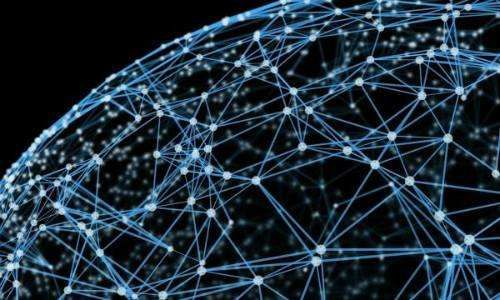
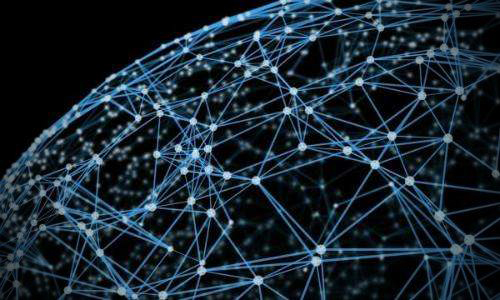
feat: glh修改了一下排版

diff --git a/font-end/src/App.vue b/font-end/src/App.vue
@@ -38,16 +38,18 @@
           contain
       />
         <div class="up-content">
-          <div style="margin-left: 100px;">
-            科技创造未来
+          <div style="margin-left: 30px;">
+            科技拥抱未来
           </div>
-          <div style="margin-left: 150px;">
+          <div style="margin-left: 70px;">
             未来拥抱世界
           </div>
-
-          <div style="margin-left: 300px;font-size: 20px;">
-            Technology creates the future, and the future embraces the world
+          <div style="margin-top: 60px; margin-left: 160px;font-size: 36px;">
+            Technology creates the future,
           </div>
+          <div style="margin-left: 230px;font-size: 36px;">
+            Future embraces the world.
+        </div>
         </div>
       </div>
 
@@ -55,7 +57,7 @@
 <!--  总的一些话    -->
       <div style="position: relative;">
         <v-img
-            :src="require('./assets/toAll.jpg')"
+            :src="require('./assets/toAll.png')"
             contain
         />
         <div class="content-image">
@@ -87,7 +89,7 @@
         >
         </v-carousel-item>
         </v-carousel>
-        <div style="margin-top: 20px;text-align: center;font-size: 35px;">{{options[swiperIndex].title}}</div>
+          <div style="margin-top: 20px;text-align: center;font-size: 35px; color: #188872"><strong>{{options[swiperIndex].title}}</strong></div>
         <div style="margin-top: 20px;text-align: center;font-size: 20px;">{{options[swiperIndex].content}}</div>
       </div>
 <!--   研究团队   -->
@@ -98,11 +100,13 @@
                 width="20%"
         />
       </div>
-      <div style="width: 70%;margin-left: 15%">
+      <div style="width: 100%">
         <div>
-          <v-card dark width="70%" style="margin-left: 15%;margin-top: 20px">
-            <v-card-title class="purple lighten-2">
-              <h2 class="display-1 white--text font-weight-light">首席科学家：容淳铭院士</h2>
+          <v-card dark width="30%" style="margin-left: 2.5%;margin-top: 20px; display: inline-block">
+            <v-card-title class="lighten-2" style="background-color: #188872">
+              <h2 class="display-1 white--text font-weight-light">首席科学家：<br>
+                <a href="https://www.qdiap.com/index.php/content/142" style="text-decoration: none; color: white">容淳铭院士</a>
+              </h2>
             </v-card-title>
             <v-container>
               <v-row>
@@ -114,9 +118,11 @@
               </v-row>
             </v-container>
           </v-card>
-          <v-card dark width="70%" style="margin-left: 15%;margin-top: 20px">
-            <v-card-title class="purple lighten-2">
-              <h2 class="display-1 white--text font-weight-light">首席顾问专家：黎子良院士</h2>
+          <v-card dark width="30%" style="margin-left: 2.5%;margin-top: 20px; display: inline-block">
+            <v-card-title class="lighten-2" style="background-color: #188872">
+              <h2 class="display-1 white--text font-weight-light">首席顾问专家：<br>
+                <a href="https://statistics.stanford.edu/people/tze-leung-lai" style="text-decoration: none; color: white">黎子良院士</a>
+              </h2>
             </v-card-title>
             <v-container>
               <v-row>
@@ -124,15 +130,16 @@
                   美国数理统计学院院士，台湾中央研究院院士，美国统计学会会士。美国斯坦福大学统计系教授、统计系原系主任，
                   斯坦福金融工程学院计算和数学工程研究所荣誉院士，斯坦福金融数学工程、金融与风险建模研究所主管。
                   1983年获国际统计学界COPSS奖(被视为国际统计学“诺贝尔”奖)，系该奖首位华人得主。已出版学术专著10余部，
-                  发表科研论文270余篇，指导已毕业的博士60余人。他2008年出版的《金融市场的数学模型和方法论》，
-                  2013年出版的《动态风险管理：金融模型与数学模型》以及《算法交易和量化科学》已经成为斯坦福大学的必修课教材。
+                  发表科研论文270余篇，指导已毕业的博士60余人。
                 </v-col>
               </v-row>
             </v-container>
           </v-card>
-          <v-card dark width="70%" style="margin-left: 15%;margin-top: 20px">
-            <v-card-title class="purple lighten-2">
-              <h2 class="display-1 white--text font-weight-light">执行负责人：丁晓蔚博士</h2>
+          <v-card dark width="30%" style="margin-left: 2.5%;margin-top: 20px; display: inline-block">
+            <v-card-title class="lighten-2" style="background-color: #188872">
+              <h2 class="display-1 white--text font-weight-light">执行负责人：<br>
+                <a href="https://im.nju.edu.cn/dxy1/list.htm" style="text-decoration: none; color: white">丁晓蔚博士</a>
+              </h2>
             </v-card-title>
             <v-container>
               <v-row>
@@ -147,9 +154,9 @@
           </v-card>
         </div>
       </div>
-      <v-timeline :dense="$vuetify.breakpoint.smAndDown" dark>
+      <v-timeline :dense="$vuetify.breakpoint.smAndDown" style="margin-top: 100px; background-color: white">
         <v-timeline-item
-                color="purple lighten-2"
+                color="black purple lighten-2"
                 fill-dot
                 right
         >
@@ -159,8 +166,8 @@
             </v-card-title>
             <v-container>
               <v-row>
-                <v-col cols="12" md="10">
-                  区块链的介绍
+                <v-col cols="12">
+                  区块链涉及数学、密码学、互联网和计算机编程等很多科学技术问题。从应用视角来看，简单来说，区块链是一个分布式的共享账本和数据库，具有去中心化、不可篡改、全程留痕、可以追溯、集体维护、公开透明等特点。
                 </v-col>
               </v-row>
             </v-container>
@@ -175,12 +182,12 @@
         >
           <v-card style="margin-left: 100px">
             <v-card-title class="red lighten-2">
-              <h2 class="display-1 white--text font-weight-light">人工智能</h2>
+              <h2 class="display-1 white--text font-weight-light" style="width: 100%;text-align: right">人工智能</h2>
             </v-card-title>
             <v-container>
               <v-row>
-                <v-col cols="12" md="10">
-                  人工智能的介绍
+                <v-col cols="12" style="width: 100%;">
+                  人工智能是计算机科学的一个分支，它企图了解智能的实质，并生产出一种新的能以人类智能相似的方式做出反应的智能机器，该领域的研究包括机器人、语言识别、图像识别、自然语言处理和专家系统等。
                 </v-col>
               </v-row>
             </v-container>
@@ -198,8 +205,8 @@
             </v-card-title>
             <v-container>
               <v-row>
-                <v-col cols="12" md="10">
-                  大数据
+                <v-col cols="12" style="width: 100%">
+                  “大数据”是需要新处理模式才能具有更强的决策力、洞察发现力和流程优化能力来适应海量、高增长率和多样化的信息资产。大数据技术的战略意义不在于掌握庞大的数据信息，而在于对这些含有意义的数据进行专业化处理。
                 </v-col>
               </v-row>
             </v-container>
@@ -214,12 +221,12 @@
         >
           <v-card style="margin-left: 100px">
             <v-card-title class="blue lighten-2">
-              <h2 class="display-1 white--text font-weight-light">FinTech4Good工作部</h2>
+              <h2 class="display-1 white--text font-weight-light" style="width: 100%;text-align: right">FinTech4Good工作部</h2>
             </v-card-title>
             <v-container>
               <v-row>
-                <v-col cols="12" md="10">
-                  FinTech4Good工作部
+                <v-col cols="12" style="width: 100%;">
+                  南京大学普惠·三农科技创新研究中心下设的公益金融科技工作部(FinTech4Good工作部)聚集了一批敢作为敢担当、以梦为马的青年群体，构建起公益创业项目“基于区块链+可信大数据AI的三农互助金融服务平台项目”。 FinTech4Good工作部力图通过区块链与可信大数据AI技术为农村打造金融+科技平台，切实助力三农问题，服务乡村振兴
                 </v-col>
               </v-row>
             </v-container>
@@ -227,7 +234,7 @@
         </v-timeline-item>
       </v-timeline>
 <!--   模块介绍   -->
-      <div style="margin-top: 10px;">
+      <div style="margin-top: 10px; background-color: white; padding-bottom: 180px">
         <v-img
             src="./assets/model1.png"
             contain
@@ -239,14 +246,14 @@
 <!--          平台从学术向社会延伸，一方面“请进来”，邀请了国内外区块链、大数据、人工智能、金融科技理论与实务的诸多专家，邀请到海外院士对团队进行指导。此外，通过“走出去”的方式，获得接受更多专家大咖指点和评判、与国内外同学们交流切磋的机会。项目旨在让青年学生快速理解区块链创新应用模式对金融业务的改造，领悟新技术对商业模式的改变与应用价值，从而激发青年们的创新意识，培养区块链思维与能力，使青年学生们紧紧跟上科技创新的脚步和金融发展的步伐，并近距离跟踪行业前沿。-->
 <!--        </div>-->
 <!-- 选择区 -->
-        <v-item-group mandatory>
+        <v-item-group mandatory style="background-color: white">
           <v-container>
             <v-row>
               <v-col
                       v-for="(item,i) in humans"
                       :key="i"
                       cols="12"
-                      md="4"
+                      md="6"
               >
                 <v-item v-slot:default="{ active, toggle }" :value="groupIndex">
                   <v-card
@@ -271,33 +278,10 @@
           </v-container>
         </v-item-group>
 
-        <div style="width: 60%;margin-left: 20%">
+        <div style="width: 60%;margin-left: 20%; color: black;">
           {{humans[groupIndex].content}}
         </div>
 
-      </div>
-<!--      模块2 -->
-      <div style="margin-top: 20px"></div>
-      <v-img
-              src="./assets/model2.png"
-              contain
-      />
-      <div style="width: 80%;margin-left: 10%">
-        <div style="text-align: center;width: 60%;margin-left: 20%">
-        FinTech4Good工作部竭诚地期盼着更多有想法有魄力的青年志愿者的加入。<br>
-        FinTech4Good工作部面向全国范围内的志愿者展开金融+科技培训，包括：<br>
-        </div>
-        <v-card>
-          <div style="font-size: 20px;margin-top: 20px;margin-bottom: 20px">
-            ▲探索产教融合：在实践的同时，导师将带领同学们撰写调研报告、撰写论文著作。<br>
-            ▲理论实践对接：暑期实习、农村实践。面向创新创业、实训实践的“请进来”，“走出去”。<br>
-            ▲实现思专融合：鼓励金融向善、大数据向善，培养青年们胸怀天下的情怀和责任。<br>
-          </div>
-        </v-card>
-        <div style="text-align: center;">
-        在本次项目中表现优秀的志愿者们，将被选拔成为本项目花旗杯参赛队员，并获得研究中心FinTech4Good工作部正式职位；<br>更有南京大学金融科技研究中心工作证明和实习证明、中英文推荐信、论文专利署名等多重福利。<br>
-        我们欢迎各方面有才华并愿意投入时间的同学们自荐加盟，<br>特别欢迎在公益创业、组织管理、宣传推广、实践调研、融资运营、编程开发等方面有特长的小伙伴加盟！<br>也欢迎有志于用金融+科技武装自己的未来新型选调生和大学生村官小伙伴加盟！
-        </div>
       </div>
 
       <div style="text-align: center;font-size: 40px;margin-top: 50px;">
@@ -316,14 +300,18 @@
     </v-content>
 <!--  底部  -->
     <v-footer
-            color="black"
+            color="#545454"
     >
       <v-col
           class="text-center"
           cols="12"
       >
-        <div style="color:#fff;">
-        {{ new Date().getFullYear() }} @ <strong>南京大学三农平台</strong>
+        <div style="color:#fff; background-color: #545454;">
+          {{ new Date().getFullYear() }} @ <strong>南京大学普惠·三农金融科技创新研究中心</strong><br>
+          南京市栖霞区仙林大道163号<br>
+          邮编: 210023<br>
+          联系方式: blockchainfintech@126.com, blockchainfintech@hotmail.com<br>
+
         </div>
       </v-col>
     </v-footer>
@@ -350,19 +338,19 @@ export default {
     swiperIndex:0,
     items: [
       {
-        src: 'https://oss-lizehao.oss-cn-beijing.aliyuncs.com/sanNong/1.jpg',
+        src: "https://colarhua-pic.oss-cn-shenzhen.aliyuncs.com/gary-jw-3/1.jpg",
       },
       {
-        src: 'https://oss-lizehao.oss-cn-beijing.aliyuncs.com/sanNong/2.jpg',
+        src: 'https://colarhua-pic.oss-cn-shenzhen.aliyuncs.com/gary-jw-3/2.jpg',
       },
       {
-        src: 'https://oss-lizehao.oss-cn-beijing.aliyuncs.com/sanNong/3.jpg',
+        src: 'https://colarhua-pic.oss-cn-shenzhen.aliyuncs.com/gary-jw-3/3.jpg',
       },
       {
-        src: 'https://oss-lizehao.oss-cn-beijing.aliyuncs.com/sanNong/4.jpg',
+        src: 'https://colarhua-pic.oss-cn-shenzhen.aliyuncs.com/gary-jw-3/4.jpg',
       },
       {
-        src: 'https://oss-lizehao.oss-cn-beijing.aliyuncs.com/sanNong/4.jpg',
+        src: 'https://colarhua-pic.oss-cn-shenzhen.aliyuncs.com/gary-jw-3/5.jpg\n',
       },
     ],
     options:[{title:"可信",content:"区块链、大数据和人工智能可以帮助提供更为可信、更为全面的金融大数据，为解决经济和社会中现存的挑战提供更为可靠的数据背景和改良指南。"},
@@ -374,7 +362,7 @@ export default {
     humans:[
       {title:"金融+科技创新创业人才培养",content:"南京大学普惠•三农金融科技创新研究中心将以培养跨学科交叉融合的人才为目标，开展更多的教学创新，希望培养一批真正既热爱金融、也热爱科技的优秀人才。从华尔街2008年危机之后来看，金融和科技的融合是大趋势。金融（经济和社会也是一样）的发展可以通过技术来驱动，因此金融人才要懂技术；而技术人才也要懂金融，那样才能对金融的内在规律特别是风险有一颗敬畏之心。而且要用金融+科技武装他们的头脑，解决金融、经济、社会痛点问题，为祖国经济社会进步服务。"},
       {title:"公益金融+科技人才培养",content:"温度和时代使命感是当下金融人才的必备素养。南京大学普惠三农金融科技创新研究中心公益金融科技(FinTech4Good)工作组，简称“ 南京大学公益金融科技(FinTech4Good)团队”（这是以后行走江湖的名号）正在着力孵化项目“基于区块链可信大数据人工智能的三农金融创新和人才培养服务平台”，服务于祖国全面建成小康社会的目标实现。"},
-      {title:"FinTech4Good工作部网页",content:"南京大学普惠·三农科技创新研究中心下设的公益金融科技工作部(FinTech4Good工作部)聚集了一批敢作为敢担当、以梦为马的青年群体，构建起公益创业项目“基于区块链+可信大数据AI的三农互助金融服务平台项目”。 FinTech4Good工作部力图通过区块链与可信大数据AI技术为农村打造金融+科技平台，切实助力三农问题，服务乡村振兴。"}
+      // {title:"FinTech4Good工作部网页",content:"南京大学普惠·三农科技创新研究中心下设的公益金融科技工作部(FinTech4Good工作部)聚集了一批敢作为敢担当、以梦为马的青年群体，构建起公益创业项目“基于区块链+可信大数据AI的三农互助金融服务平台项目”。 FinTech4Good工作部力图通过区块链与可信大数据AI技术为农村打造金融+科技平台，切实助力三农问题，服务乡村振兴。"}
     ]
 
   }),
@@ -389,22 +377,22 @@ export default {
   }
   .content-image{
     position:absolute;
-    left:calc(50% - 100px);
-    bottom:60%;
+    left:calc(21%);
+    top: 22%;
     font-size: 40px;
   }
   .detail-image{
     position:absolute;
-    left:calc(20%);
-    right:calc(20%);
-    bottom:40%;
+    left:calc(10%);
+    right:calc(50%);
+    top: 37%;
     font-size: 20px;
   }
   .up-content{
     position:absolute;
-    bottom:10px;
+    bottom:25%;
     color:white;
-    font-size: 100px;
-    text-shadow:#000 0px 0px 5px;
+    font-size: 85px;
+    text-shadow:#000 5px 5px 5px;
   }
 </style>
